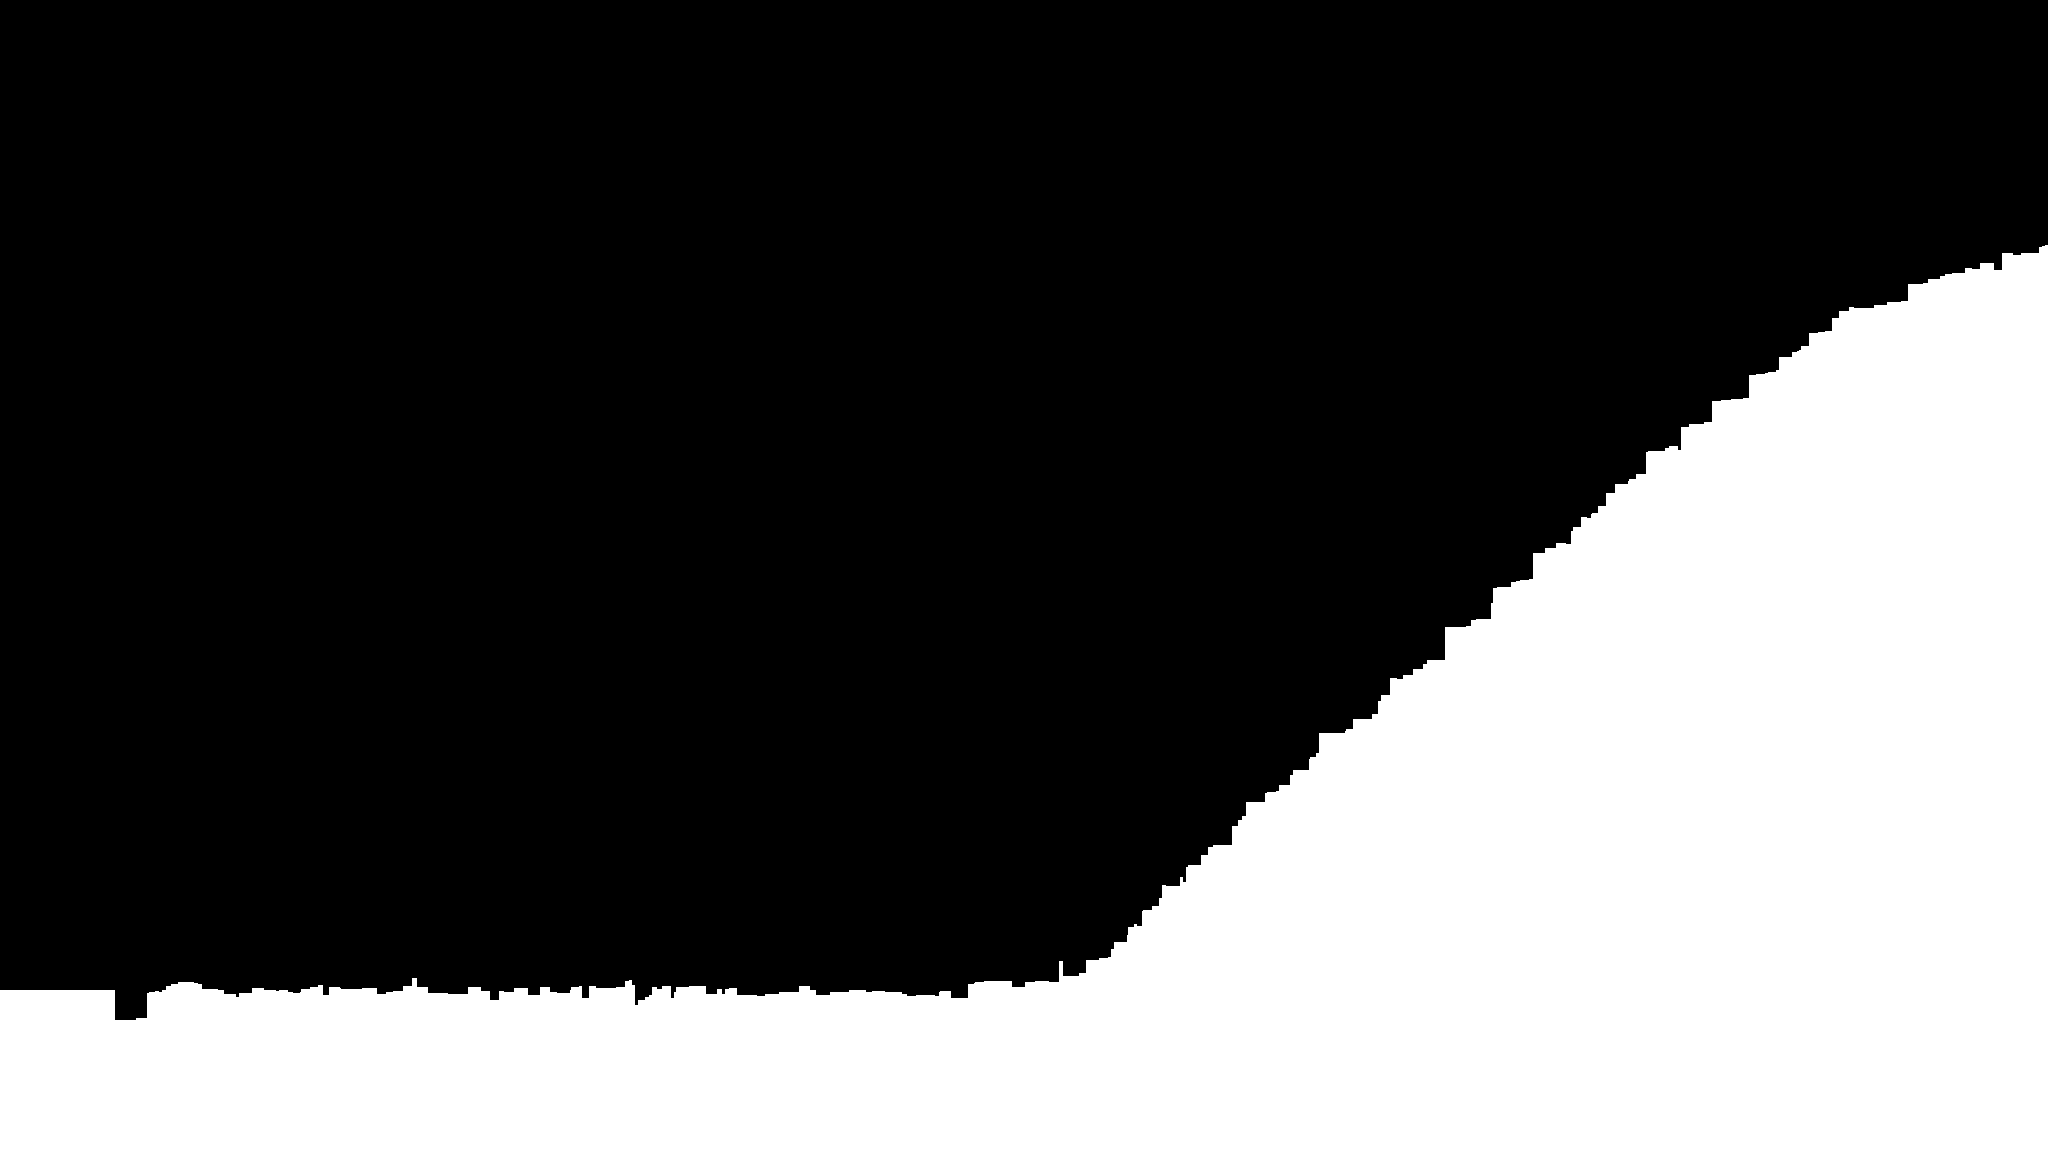
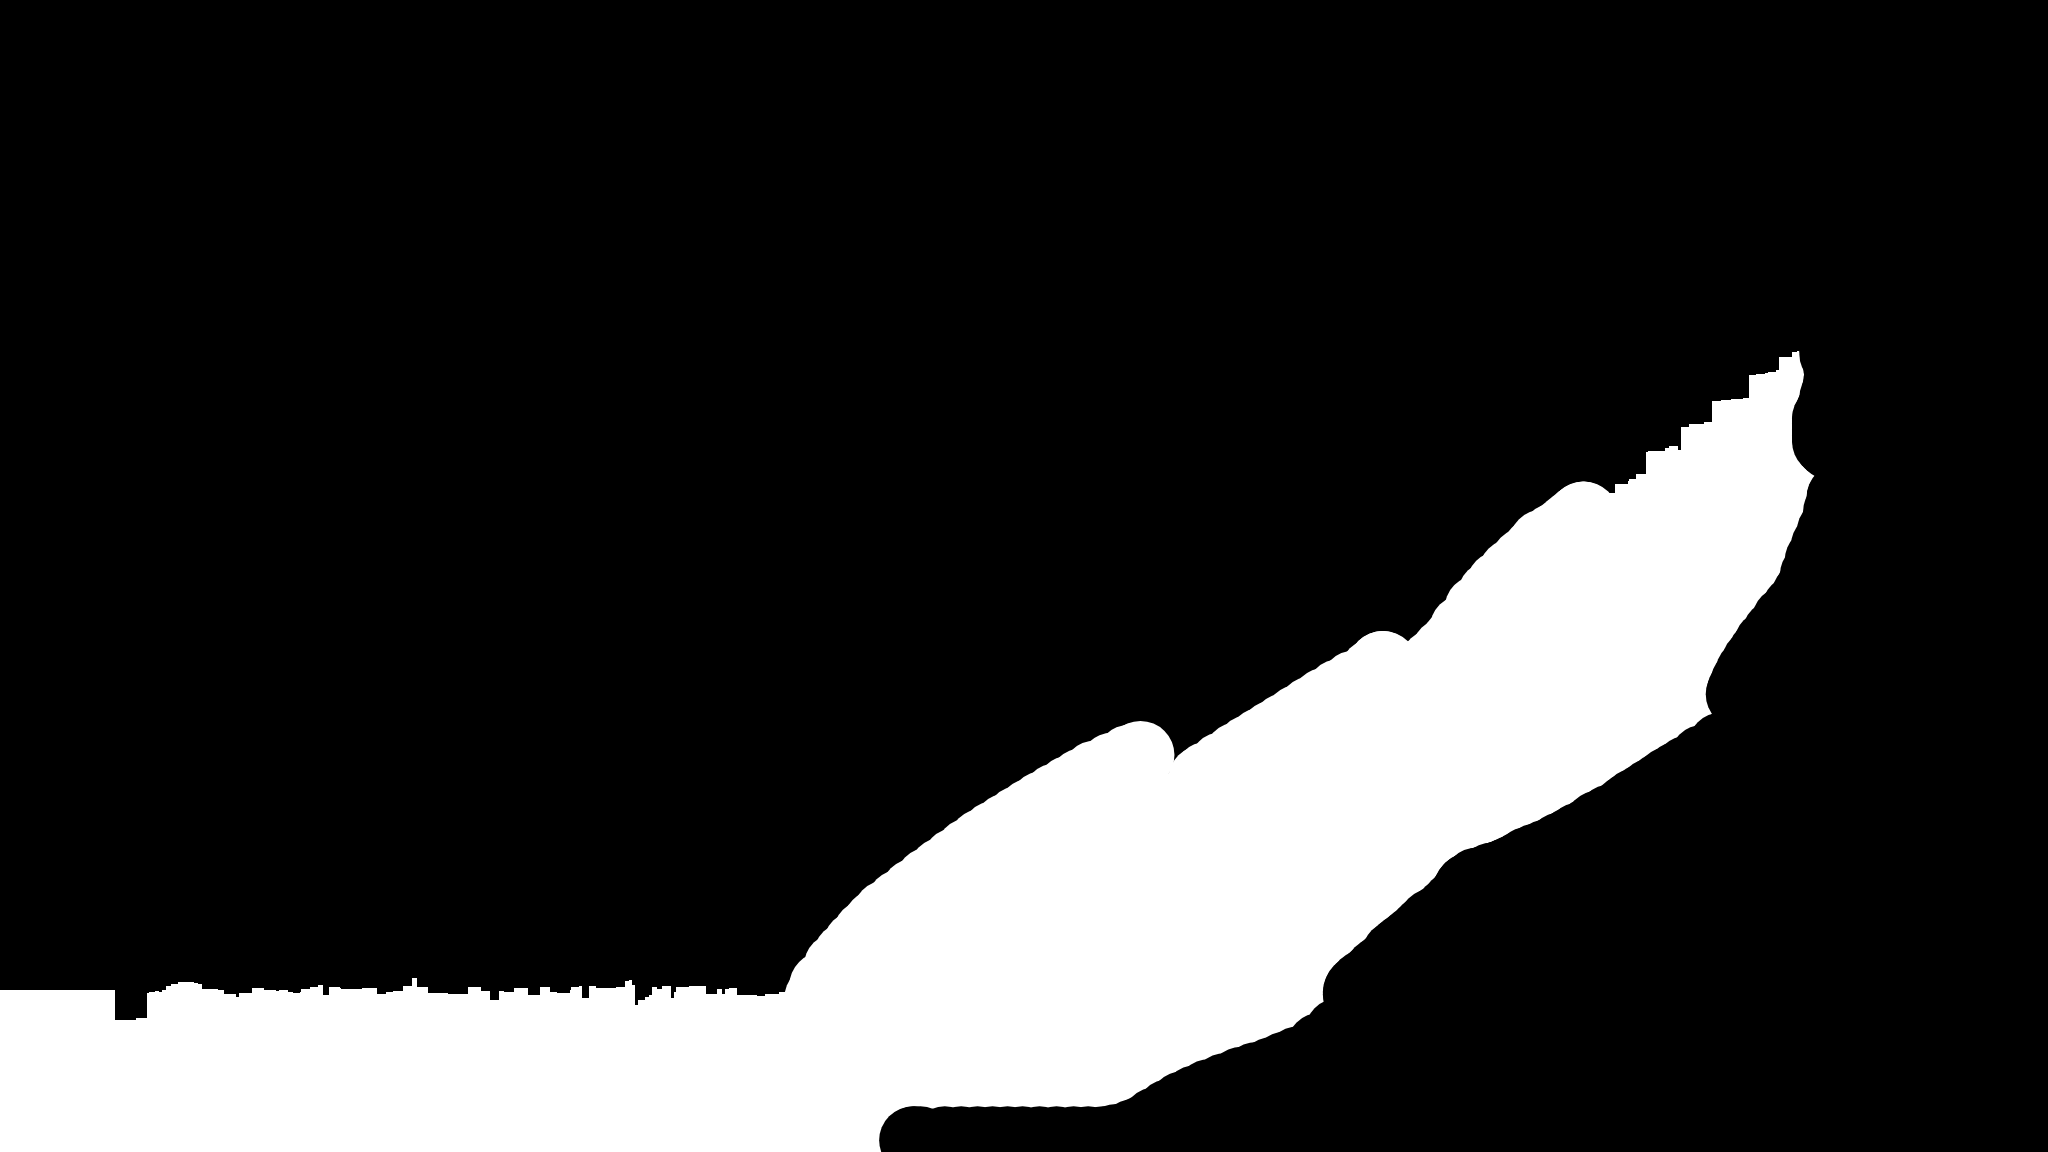
合并远端 ui-atmosphere-polish 后保留的本地修改：Godot 4.7.2 升级痕迹（project.godot features=4.7、docs/rpg/README 引擎版本）、AGENTS.md 本地备注并入新版、2D 遮罩涂绘存档

Changed region(s): [[0.4062, 0.2188, 1.0, 1.0], [0.375, 0.4062, 0.7812, 0.875]]

diff --git a/AGENTS.md b/AGENTS.md
@@ -1,5 +1,19 @@
 # AGENTS.md — 《逢魔退治帖》当前项目说明
 
+## 2026-10-05 引擎升级
+
+当前使用 Godot **4.7.2 stable**，4.6.3 保留用于回退。升级对照与原有失败见 [升级评估](docs/godot-4.7-upgrade-report.md)；不能把“未发现新增回归”写成全项目测试通过。
+
+## 2026-10-03 视频素材试作约定
+
+用户指定后续角色动画视频统一使用 LibTV 的 **Minimax H3、768P**（`MiniMax-Hailuo-H3`），通过 `libtv` CLI 操作。首尾帧模式为 `frames2video`，当前最短 5 秒、比例跟随输入；运行前核验实时模型配置。动作优先快速出手、短停顿和连续衔接。旧 Seedance 样片保留用于对照，不覆盖历史生成记录；生成和抽帧结果先放 `build/libtv/`，经检查后再决定是否接入游戏。
+
+## 2026-10-01 可选回合制 RPG 新增说明
+
+原标题仍为默认入口；「回合制 RPG 试作」显式进入独立六职业/24固定技能的新模式。新规则在 `scripts/rpg/`、`data/rpg/`，新场景在 `scenes/rpg/`，新档只写 `user://rpg_v1/`。四张固定技能卡不抽牌、不共享行动点；原卡牌模式、故事/谜题、美术、xlsx管线、3D预览保留。以下历史说明仍描述对应旧基线，不能把新模式误写成旧默认战斗已替换。
+
+实际入口与隔离命令见 [RPG说明](docs/rpg/README.md)，最终覆盖与限制见 [验证报告](docs/rpg/verification-2026-09-30.md)。测试必须从 `tools/rpg/run_checks.py` 开始，先核验临时 `user://`；不要对真实旧玩家档运行写档/清理回归。
+
 更新：2026-10-05。全部沟通、技术说明与新增注释以中文为主。
 
 ## 当前主线与事实优先级

diff --git a/docs/rpg/README.md b/docs/rpg/README.md
@@ -33,7 +33,7 @@
 
 ## 隔离验证
 
-从仓库根运行，Godot 4.6.3（可用 `--godot /path/to/godot` 或 `GODOT_BIN`）。首次克隆、删除导入缓存或资源发生变化时，首个Godot验证命令必须带 `--import`；它在隔离预检成功后先导入资源和全局脚本类。后续增量验证可省略 `--import`，不提交 `.godot/` 或本次生成的导入侧文件：
+从仓库根运行，Godot 4.7.2（可用 `--godot /path/to/godot` 或 `GODOT_BIN`）。首次克隆、删除导入缓存或资源发生变化时，首个Godot验证命令必须带 `--import`；它在隔离预检成功后先导入资源和全局脚本类。后续增量验证可省略 `--import`，不提交 `.godot/` 或本次生成的导入侧文件：
 
 ```bash
 python3 -m unittest tools.rpg.test_run_checks
